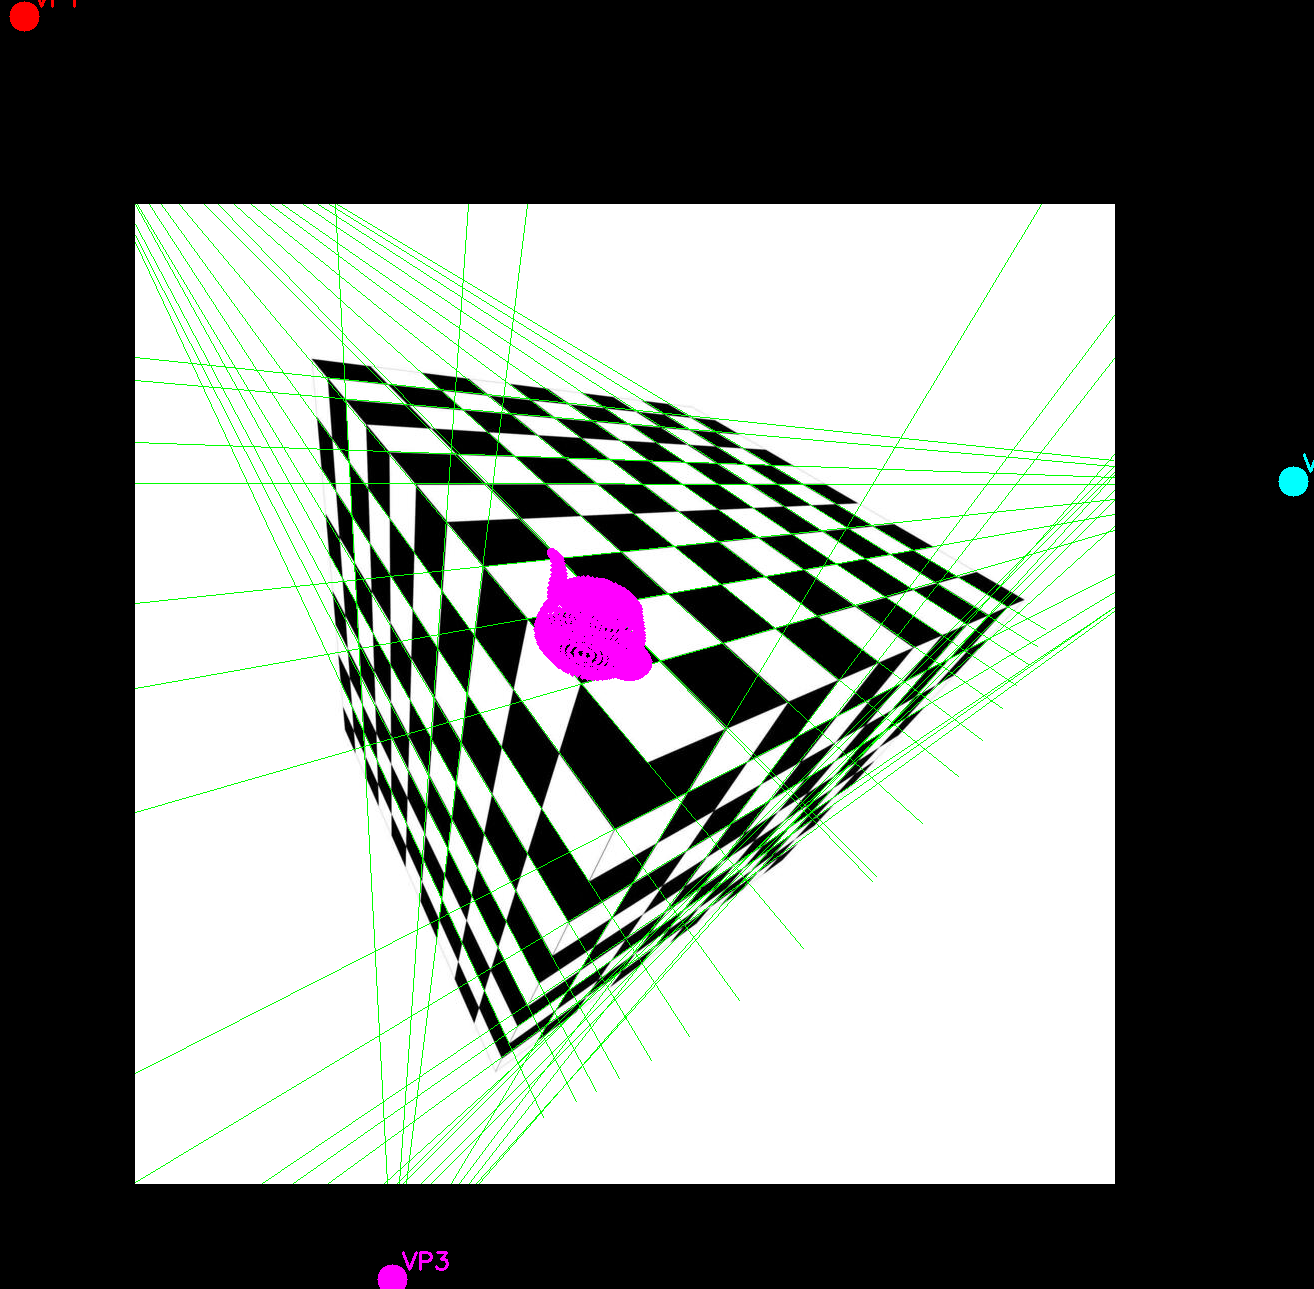
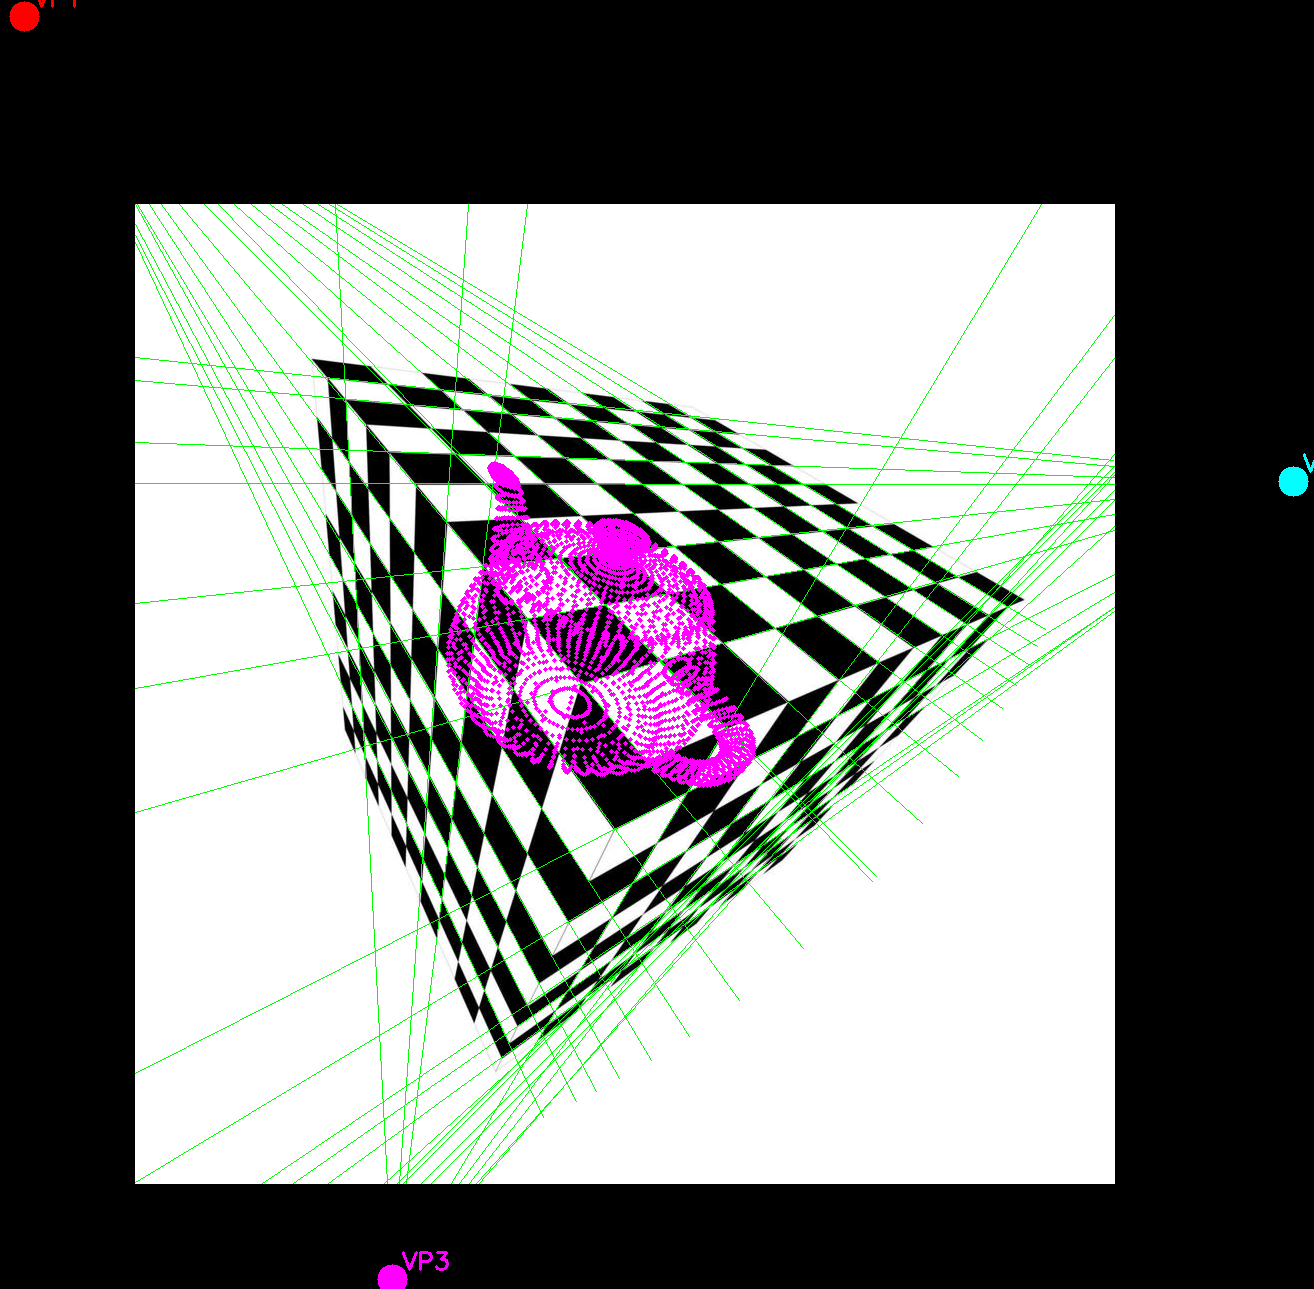
bigger model

Changed region(s): [[0.3432, 0.3413, 0.5928, 0.6206]]

diff --git a/hough-perspective/main.py b/hough-perspective/main.py
@@ -312,7 +312,7 @@ model_points = np.unique(model_mesh.vectors.reshape(-1, 3), axis=0)
 model_points = model_points / np.max(model_points)
 model_points -= np.mean(model_points, axis=0)
 model_points *= np.array([1,1,-1])
-model_points *= 200.0
+model_points *= 500.0
 model_points += np.array([0, 0, 600])
 model_points += np.array([vis_with_model.shape[1] / 2, vis_with_model.shape[0] / 2, 0])
 
